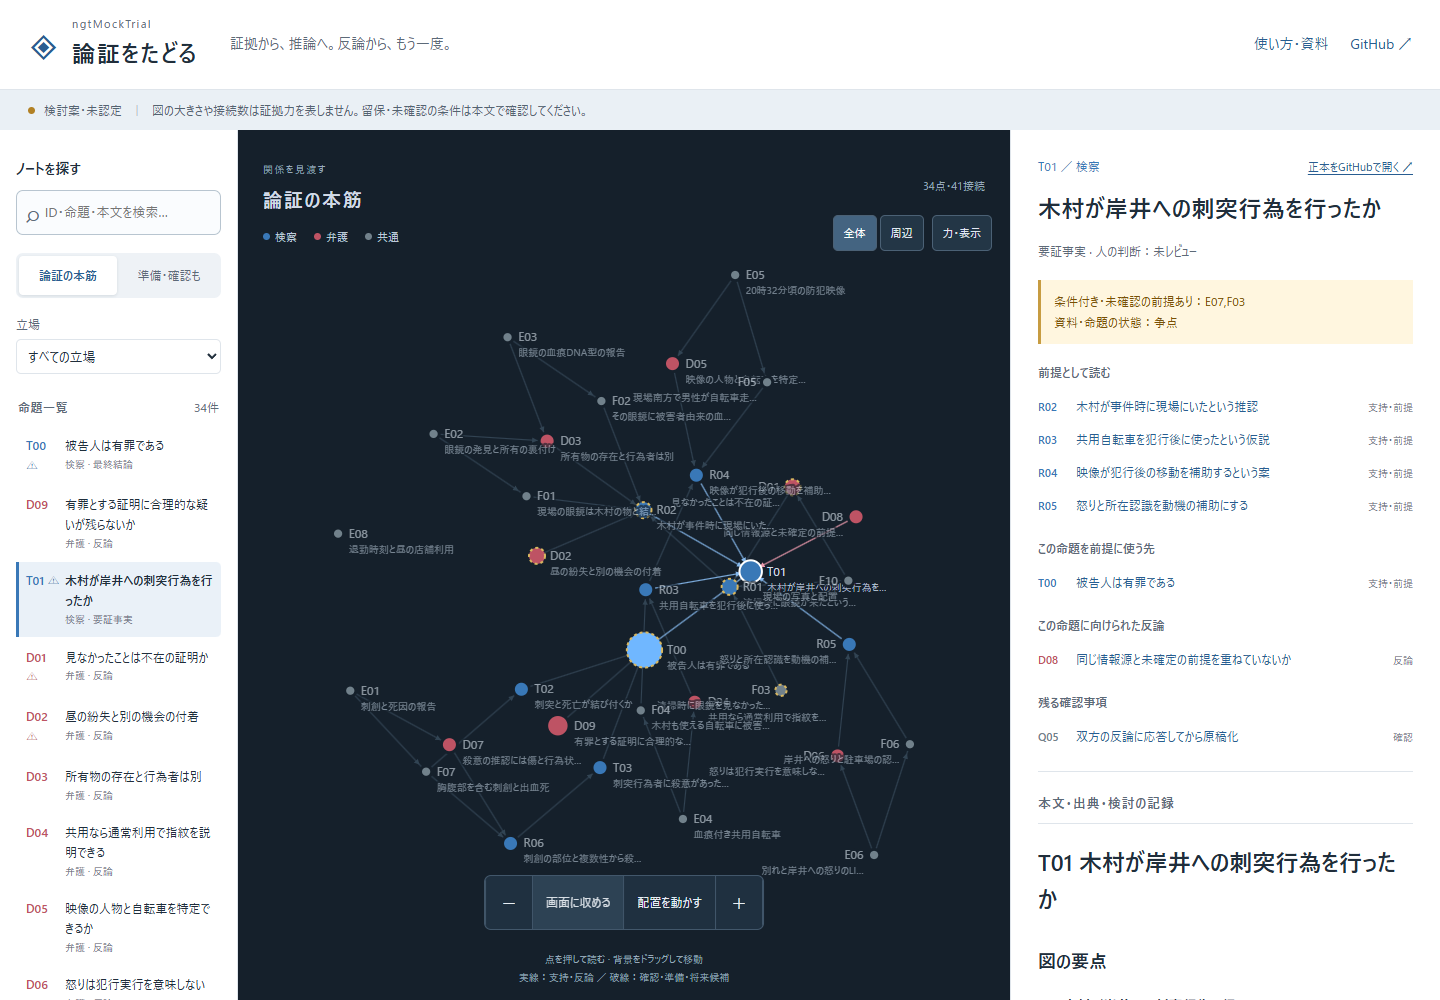
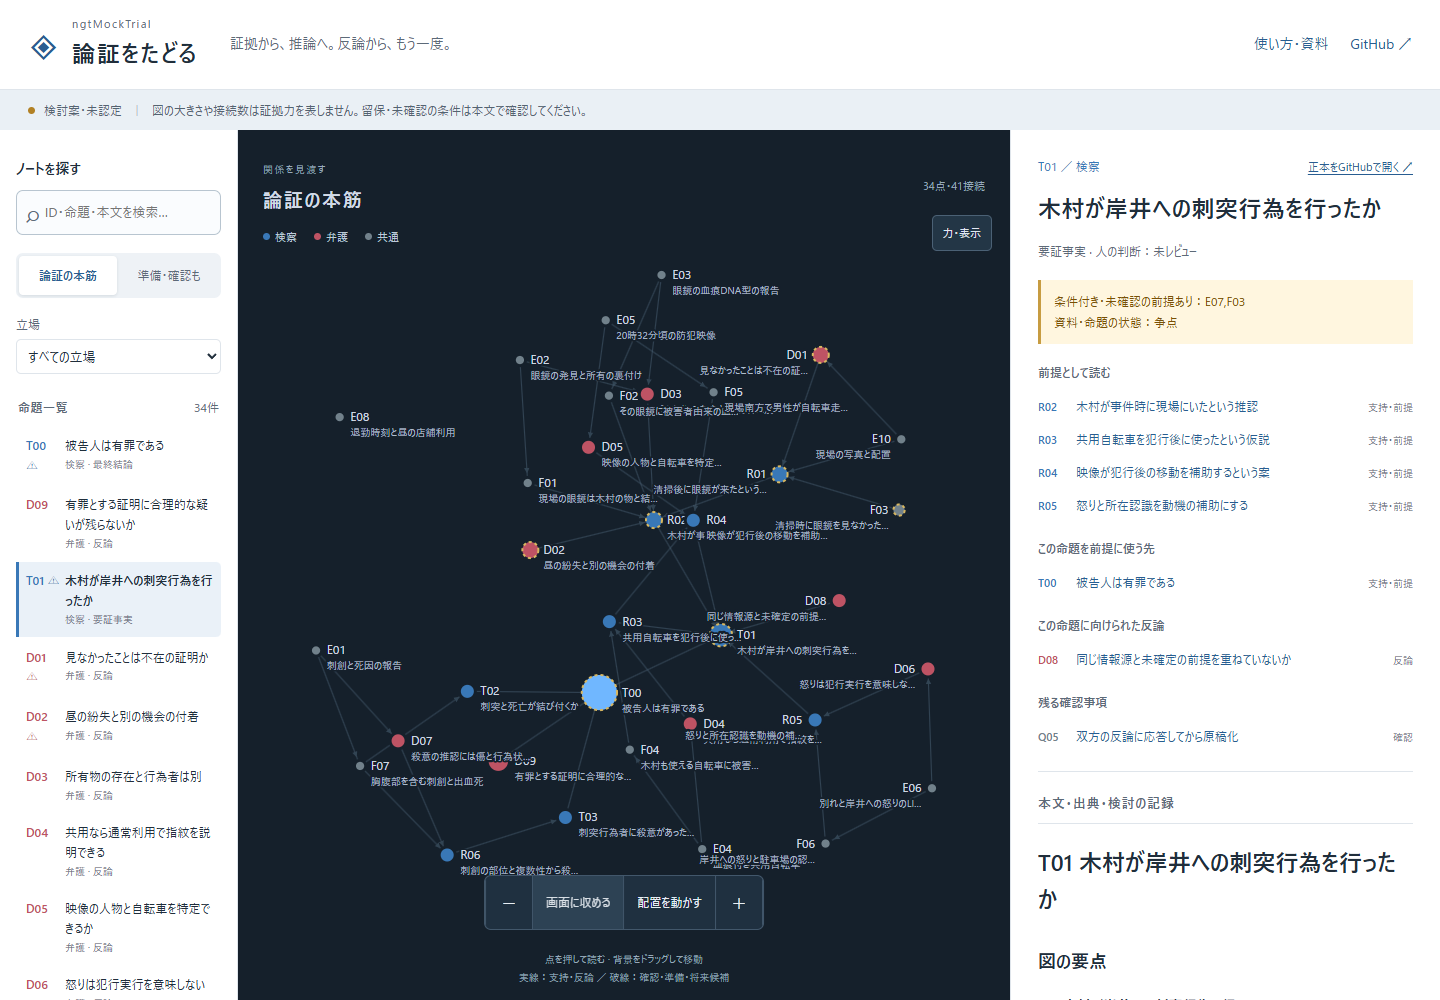
Keep the graph bright until explicit interaction and remove local mode

diff --git a/web/app.js b/web/app.js
@@ -22,13 +22,12 @@
           (typeof saved[key] !== 'number' || Number.isFinite(saved[key]))) settings[key] = saved[key];
     }
   } catch (_) { /* Storage is optional, including file: previews. */ }
-  let graphMode = query.get('graph') === 'local' ? 'local' : 'global';
   let scope = query.get('scope') === 'detail' ? 'detail' : 'main';
   let selected = 'T01', search = query.get('q') || '', side = query.get('side') || '';
   let nodeElements = [], edgeElements = [], visible = [], edges = [], positions = {};
   let width = 600, height = 800, zoom = 1, panX = 0, panY = 0;
   let dragging = null, moved = false;
-  let simulation = null, simulationNodes = [], hovered = null, userPaused = false;
+  let simulation = null, simulationNodes = [], hovered = null, emphasized = null, userPaused = false;
   let fitScale = 1, worldCenter = {x:0,y:0}, plotCenterY=400, automaticFit = true, startedAt = 0;
   const pointCache = new Map();
   const reduceMotion = matchMedia('(prefers-reduced-motion:reduce)');
@@ -48,7 +47,6 @@
     if (scope === 'detail') params.set('scope', scope);
     if (search) params.set('q', search);
     if (side) params.set('side', side);
-    if (graphMode === 'local') params.set('graph', graphMode);
     history.replaceState(null, '', location.pathname + (params.size ? '?' + params : '') + location.hash);
   }
 
@@ -101,7 +99,7 @@
     $('detail').scrollTop = 0;
     document.title = `${id} ${note.title}｜模擬裁判`;
     for (const a of document.querySelectorAll('.note-link')) a.setAttribute('aria-current', a.dataset.note === id);
-    if (graphMode === 'local') renderGraph(); else highlightGraph();
+    highlightGraph();
   }
 
   function renderDocument(path, heading) {
@@ -192,15 +190,8 @@
     const rect = $('graph').getBoundingClientRect(); width=rect.width; height=rect.height;
     $('graph').setAttribute('viewBox',`0 0 ${width} ${height}`);
     let graphNotes=visible;
-    if(graphMode==='local'){
-      const neighbors=new Set([selected]);
-      for(const edge of data.edges)if(edge.source===selected||edge.target===selected){neighbors.add(edge.source);neighbors.add(edge.target);}
-      graphNotes=visible.filter(n=>neighbors.has(n.id));
-    }
     if(!settings.showOrphans){const candidates=new Set(graphNotes.map(n=>n.id));const connected=new Set();for(const edge of data.edges)if(candidates.has(edge.source)&&candidates.has(edge.target)){connected.add(edge.source);connected.add(edge.target);}graphNotes=graphNotes.filter(n=>connected.has(n.id));}
-    $('global-graph').setAttribute('aria-pressed',graphMode==='global');
-    $('local-graph').setAttribute('aria-pressed',graphMode==='local');
-    $('graph-title').textContent=(graphMode==='local' ? selected+'の周辺' : scope==='main'?'論証の本筋':'準備・確認を含む全体');
+    $('graph-title').textContent=scope==='main'?'論証の本筋':'準備・確認を含む全体';
     const ids=graphNotes.map(n=>n.id),set=new Set(ids);
     edges=data.edges.filter(e=>set.has(e.source)&&set.has(e.target));
     simulationNodes=ids.map((id,i)=>{
@@ -236,8 +227,8 @@
       node.addEventListener('pointerleave',()=>{hovered=null;highlightGraph();});
       node.addEventListener('focus',()=>{hovered=note.id;highlightGraph();});
       node.addEventListener('blur',()=>{hovered=null;highlightGraph();});
-      node.addEventListener('click',e=>{if(moved&&e.detail>0)e.preventDefault();moved=false;});
-      node.addEventListener('keydown',e=>{if(e.key===' '){e.preventDefault();location.hash=note.id;}});
+      node.addEventListener('click',e=>{if(moved&&e.detail>0)e.preventDefault();else emphasized=note.id;moved=false;highlightGraph();});
+      node.addEventListener('keydown',e=>{if(e.key===' '){e.preventDefault();emphasized=note.id;location.hash=note.id;highlightGraph();}});
       return {id:note.id,element:node};
     });
     paint();highlightGraph();restartSimulation(.2);
@@ -249,16 +240,17 @@
     for(const {id,element} of nodeElements){const p=positions[id],radius=nodeRadius(id),right=p.x>width*.68;element.setAttribute('transform',`translate(${p.x},${p.y})`);element.querySelector('circle').setAttribute('r',radius);for(const label of element.querySelectorAll('text')){label.setAttribute('x',right?-radius-5:radius+5);label.setAttribute('text-anchor',right?'end':'start');}}
     for(const {element} of edgeElements){element.style.strokeWidth=String(settings.lineSizeMultiplier*1.1);element.setAttribute('marker-end',settings.showArrow?'url(#arrow)':'');}
     $('camera').setAttribute('transform',`translate(${panX},${panY}) scale(${zoom})`);
-    const labelOpacity=Math.max(.12,Math.min(1,zoom*Math.pow(2,settings.textFadeMultiplier/4)));
-    for(const {id,element} of nodeElements)for(const label of element.querySelectorAll('text'))label.style.opacity=String(id===(hovered||selected)?1:labelOpacity);
+    const focus=hovered||emphasized;
+    const labelOpacity=focus?Math.max(.12,Math.min(1,zoom*Math.pow(2,settings.textFadeMultiplier/4))):1;
+    for(const {id,element} of nodeElements)for(const label of element.querySelectorAll('text'))label.style.opacity=String(id===focus?1:labelOpacity);
   }
 
   function highlightGraph() {
-    const focus=hovered||selected;
+    const focus=hovered||emphasized;
     const connected = new Set([focus]);
     for(const edge of edges)if(edge.source===focus||edge.target===focus){connected.add(edge.source);connected.add(edge.target);}
-    for(const {id,element} of nodeElements){element.classList.toggle('selected',id===selected);element.classList.toggle('dimmed',!connected.has(id));}
-    for(const {edge,element} of edgeElements){const active=edge.source===focus||edge.target===focus;element.classList.toggle('active',active);element.classList.toggle('dimmed',!active);}
+    for(const {id,element} of nodeElements){element.classList.toggle('selected',id===focus);element.classList.toggle('dimmed',!!focus&&!connected.has(id));}
+    for(const {edge,element} of edgeElements){const active=edge.source===focus||edge.target===focus;element.classList.toggle('active',active);element.classList.toggle('dimmed',!!focus&&!active);}
     paint();
   }
 
@@ -267,17 +259,17 @@
   function startDrag(e,id){if(e.button!==0)return;e.stopPropagation();moved=false;automaticFit=false;const point=id?pointCache.get(id):null;dragging={id,x:e.clientX,y:e.clientY,panX,panY,start:point?{x:point.x,y:point.y}:null};if(point){point.fx=point.x;point.fy=point.y;restartSimulation(.3);}$('graph').setPointerCapture(e.pointerId);}
   $('graph').addEventListener('pointerdown',e=>startDrag(e,null));
   $('graph').addEventListener('pointermove',e=>{if(!dragging)return;const dx=e.clientX-dragging.x,dy=e.clientY-dragging.y;if(Math.hypot(dx,dy)>5)moved=true;if(dragging.id){const p=pointCache.get(dragging.id);p.x=p.fx=dragging.start.x+dx/zoom/fitScale;p.y=p.fy=dragging.start.y+dy/zoom/fitScale;}else{panX=dragging.panX+dx;panY=dragging.panY+dy;}paint();});
-  function finishDrag(e){const current=dragging;dragging=null;if($('graph').hasPointerCapture(e.pointerId))$('graph').releasePointerCapture(e.pointerId);if(current?.id){const point=pointCache.get(current.id);point.fx=point.fy=null;restartSimulation(.3);if(!moved&&e.type!=='pointercancel')location.hash=current.id;}}
+  function finishDrag(e){const current=dragging;dragging=null;if($('graph').hasPointerCapture(e.pointerId))$('graph').releasePointerCapture(e.pointerId);if(current?.id){const point=pointCache.get(current.id);point.fx=point.fy=null;restartSimulation(.3);if(!moved&&e.type!=='pointercancel'){emphasized=current.id;location.hash=current.id;highlightGraph();}}else if(current&&!moved&&e.type!=='pointercancel'){emphasized=hovered=null;highlightGraph();}}
   $('graph').addEventListener('pointerup',finishDrag);
   $('graph').addEventListener('pointercancel',finishDrag);
   $('graph').addEventListener('wheel',e=>{if(e.ctrlKey)return;e.preventDefault();scaleBy(Math.exp(-e.deltaY*.002));},{passive:false});
   $('graph').setAttribute('tabindex','0');
   $('graph').addEventListener('keydown',e=>{if(['+','=','-','ArrowLeft','ArrowRight','ArrowUp','ArrowDown'].includes(e.key)){e.preventDefault();if(e.key==='+'||e.key==='=')scaleBy(1.25);else if(e.key==='-')scaleBy(.8);else{automaticFit=false;const amount=e.shiftKey?60:20;panX+=e.key==='ArrowLeft'?amount:e.key==='ArrowRight'?-amount:0;panY+=e.key==='ArrowUp'?amount:e.key==='ArrowDown'?-amount:0;paint();}}});
   $('zoom-in').addEventListener('click',()=>scaleBy(1.25));$('zoom-out').addEventListener('click',()=>scaleBy(.8));
-  $('reset-graph').addEventListener('click',()=>{fitWorld();resetView();for(const {element} of nodeElements)element.classList.remove('dimmed');for(const {element} of edgeElements)element.classList.remove('dimmed');});
+  $('reset-graph').addEventListener('click',()=>{fitWorld();resetView();emphasized=hovered=null;highlightGraph();});
   $('pause-layout').addEventListener('click',()=>{if($('graph').dataset.running==='true'){userPaused=true;stopSimulation();}else{userPaused=false;restartSimulation();}});
-  $('global-graph').addEventListener('click',()=>{graphMode='global';updateURL();renderGraph();});
-  $('local-graph').addEventListener('click',()=>{graphMode='local';updateURL();renderGraph();});
+  $('note-list').addEventListener('click',e=>{const link=e.target.closest('[data-note]');if(link){emphasized=link.dataset.note;highlightGraph();}});
+  document.addEventListener('keydown',e=>{if(e.key==='Escape'){emphasized=hovered=null;highlightGraph();}});
   function showSettings(){for(const input of document.querySelectorAll('[data-setting]')){if(input.type==='checkbox')input.checked=settings[input.dataset.setting];else{input.value=settings[input.dataset.setting];input.previousElementSibling.value=String(settings[input.dataset.setting]);}}}
   function saveSettings(){try{localStorage.setItem(settingsKey,JSON.stringify(settings));}catch(_){} }
   for(const input of document.querySelectorAll('[data-setting]'))input.addEventListener('input',()=>{settings[input.dataset.setting]=input.type==='checkbox'?input.checked:Number(input.value);showSettings();saveSettings();if(['centerStrength','repelStrength','linkStrength','linkDistance','nodeSizeMultiplier'].includes(input.dataset.setting)){applyForces();restartSimulation();}paint();});
@@ -291,7 +283,7 @@
   $('search').addEventListener('input',e=>{search=e.target.value;renderIndex();});
   $('side').addEventListener('change',e=>{side=e.target.value;renderIndex();});
   $('detail-content').addEventListener('click',e=>{const link=e.target.closest('a[href^="#heading="]');if(link){e.preventDefault();scrollHeading(decodeURIComponent(link.hash.slice(9)));}});
-  window.addEventListener('hashchange',()=>{route();if(matchMedia('(max-width:850px)').matches)$('detail').scrollIntoView({block:'start'});});
+  window.addEventListener('hashchange',()=>{const id=location.hash.slice(1);emphasized=notes[id]?id:null;hovered=null;route();highlightGraph();if(matchMedia('(max-width:850px)').matches)$('detail').scrollIntoView({block:'start'});});
   let resizeFrame;
   new ResizeObserver(()=>{cancelAnimationFrame(resizeFrame);resizeFrame=requestAnimationFrame(renderGraph);}).observe($('graph'));
   renderIndex();route();

diff --git a/web/styles.css b/web/styles.css
@@ -5,5 +5,5 @@
 @media(max-width:850px){.workspace{grid-template-columns:200px 1fr;height:auto;min-height:0}.graph-panel{height:570px;grid-column:2;grid-row:1}.index-panel{grid-row:1 / 3;max-height:none}.detail-panel{grid-column:2;overflow:visible;border-top:1px solid var(--line);padding-bottom:40px}.notice{font-size:11px;padding:8px 18px;display:block}.notice-dot{display:none}.masthead{height:80px}.graph-heading h2{font-size:18px}.graph-node .node-title{font-size:10px}}
 @media(max-width:560px){.masthead{height:auto;min-height:75px;padding:13px 16px;gap:10px}.brand-mark{font-size:29px}.brand{gap:8px}h1{font-size:18px}.eyebrow{font-size:10px}.header-links{font-size:11px;gap:12px}.notice{padding:8px 16px;font-size:10px;line-height:1.7}.workspace{display:flex;flex-direction:column}.index-panel{padding:15px 16px 10px;border-right:0}.search-label{font-size:12px}.search-wrap{margin-top:4px}.scope-switch{margin-top:10px}.filter-label{display:none}#side{display:none}.list-heading{margin-top:12px;margin-bottom:5px}#note-list{display:flex;overflow:auto;gap:5px;padding-bottom:5px;max-height:100px}.note-link{min-width:160px;max-width:200px;flex:0 0 165px;display:block;padding:7px 8px;font-size:11px;border:1px solid var(--line);border-left:3px solid var(--node-color);border-radius:4px}.note-id{display:block;font-size:10px}.note-link small{display:none}.sidebar-footer{display:none}.graph-panel{height:450px;flex-shrink:0;order:2}.detail-panel{order:3;border-left:0;padding:24px 20px 50px;min-height:500px}.graph-heading{top:18px}.graph-legend{top:83px}.graph-heading h2{font-size:17px}.graph-tools{bottom:60px}.graph-hint{bottom:9px}.detail-panel h2.note-title{font-size:22px}.markdown{font-size:15px}.note-category{font-size:12px}.graph-node .node-title{display:none}.graph-node.selected .node-title{display:block}.graph-node text{font-size:11px}.notice>span:not(.notice-dot){display:none}}
 @media(prefers-reduced-motion:reduce){.detail-panel{scroll-behavior:auto}*{animation:none!important;transition:none!important}}
-.graph-options{position:absolute;right:18px;top:85px;z-index:5;display:flex;gap:8px;align-items:flex-start;font-size:11px}.graph-options button,.graph-options summary{background:#233646;border:1px solid #4b6175;color:#e0e8f0;border-radius:5px;padding:7px 10px;cursor:pointer;min-height:36px}.graph-mode{display:flex;gap:3px}.graph-mode button[aria-pressed=true]{background:#446481;color:white}.graph-options details{position:relative}.graph-options summary{list-style:none}.graph-options summary::-webkit-details-marker{display:none}.settings-body{position:absolute;right:0;top:42px;width:270px;padding:15px;background:#20303e;border:1px solid #52677a;border-radius:7px;box-shadow:0 8px 28px #0005;max-height:calc(100dvh - 300px);overflow:auto;color:#d9e2eb;overscroll-behavior:contain}.settings-body p{font-size:10px;line-height:1.7;color:#b8c7d4;margin:4px 0 12px}.settings-body fieldset{border:0;border-top:1px solid #43586a;padding:10px 0;margin:8px 0}.settings-body legend{font-size:11px;padding:0 7px;color:#bfcfdd}.settings-body label{display:block;margin-bottom:9px;font-size:11px}.settings-body output{float:right;color:#fff;font-variant-numeric:tabular-nums}.settings-body input[type=range]{width:100%;display:block;accent-color:#92c4ef;margin:7px 0;min-height:20px}.settings-body .checkbox{display:flex;align-items:center;gap:7px;min-height:34px}.settings-body #restore-settings{width:100%;font-size:11px}.graph-options summary:hover,.graph-options button:hover{background:#38536a}.graph-tools{white-space:nowrap}.graph-tools #pause-layout{border-left:1px solid #42576b}
+.graph-options{position:absolute;right:18px;top:85px;z-index:5;display:flex;gap:8px;align-items:flex-start;font-size:11px}.graph-options button,.graph-options summary{background:#233646;border:1px solid #4b6175;color:#e0e8f0;border-radius:5px;padding:7px 10px;cursor:pointer;min-height:36px}.graph-options details{position:relative}.graph-options summary{list-style:none}.graph-options summary::-webkit-details-marker{display:none}.settings-body{position:absolute;right:0;top:42px;width:270px;padding:15px;background:#20303e;border:1px solid #52677a;border-radius:7px;box-shadow:0 8px 28px #0005;max-height:calc(100dvh - 300px);overflow:auto;color:#d9e2eb;overscroll-behavior:contain}.settings-body p{font-size:10px;line-height:1.7;color:#b8c7d4;margin:4px 0 12px}.settings-body fieldset{border:0;border-top:1px solid #43586a;padding:10px 0;margin:8px 0}.settings-body legend{font-size:11px;padding:0 7px;color:#bfcfdd}.settings-body label{display:block;margin-bottom:9px;font-size:11px}.settings-body output{float:right;color:#fff;font-variant-numeric:tabular-nums}.settings-body input[type=range]{width:100%;display:block;accent-color:#92c4ef;margin:7px 0;min-height:20px}.settings-body .checkbox{display:flex;align-items:center;gap:7px;min-height:34px}.settings-body #restore-settings{width:100%;font-size:11px}.graph-options summary:hover,.graph-options button:hover{background:#38536a}.graph-tools{white-space:nowrap}.graph-tools #pause-layout{border-left:1px solid #42576b}
 @media(max-width:560px){.graph-options{top:68px;right:12px;gap:5px}.graph-options button,.graph-options summary{font-size:10px;padding:7px;min-height:36px}.settings-body{width:255px;max-height:280px}.graph-tools button{padding:8px 10px}.graph-heading{right:15px}.graph-legend{gap:11px}}

diff --git a/web/index.html b/web/index.html
@@ -37,7 +37,6 @@
     <div class="graph-heading"><div><span class="graph-kicker">関係を見渡す</span><h2 id="graph-title">論証の本筋</h2></div><span id="graph-count"></span></div>
     <div class="graph-legend"><span><i class="dot prosecution"></i>検察</span><span><i class="dot defense"></i>弁護</span><span><i class="dot common"></i>共通</span></div>
     <div class="graph-options">
-      <div class="graph-mode" role="group" aria-label="グラフの広さ"><button id="global-graph" aria-pressed="true">全体</button><button id="local-graph" aria-pressed="false">周辺</button></div>
       <details id="graph-settings"><summary>力・表示</summary><div class="settings-body">
         <p id="settings-origin"></p>
         <fieldset><legend>力</legend>

diff --git a/web/DESIGN.md b/web/DESIGN.md
@@ -6,7 +6,9 @@
 
 実行時のトークンは`styles.css`の`:root`。背景・本文・補助文・境界・立場色・警告・フォーカス・文字サイズを集約する。図の点は暗い背景に合わせた明るい同系色。種類・立場・状態は本文にも文字で示し、色だけに頼らない。
 
-グラフは正本の関係だけを使うD3の力学配置。ObsidianのピンやCanvas座標は変更しない。ドラッグ・設定変更で再計算し、収束後または操作がない状態で最大3.5秒後には停止する。非表示タブとページ離脱でも停止し、動きを減らす設定では同期計算して静止画を描く。拡縮・画面に収める・配置の停止／再開ボタンも置く。力・表示の調整と全体／周辺切替をグラフ右上にまとめる。
+グラフは正本の関係だけを使うD3の力学配置。ObsidianのピンやCanvas座標は変更しない。ドラッグ・設定変更で再計算し、収束後または操作がない状態で最大3.5秒後には停止する。非表示タブとページ離脱でも停止し、動きを減らす設定では同期計算して静止画を描く。拡縮・画面に収める・配置の停止／再開ボタンも置く。右上は力・表示の調整だけとし、全体／周辺の切替は置かない。
+
+本文で表示中のノートと、グラフで明示的に強調したノートを分離する。初期表示は全体を明るくし、ホバー／フォーカスの間とクリック選択後だけ関係外を暗くする。未選択時のホバー解除では全体表示へ戻る。背景クリック・Escape・画面に収めるでも強調を解除する。初期URLのノート指定や本文の既定ノートだけで全体を暗くしない。
 
 共有設定は`graph-settings.json`の保存済みObsidian設定。力はD3向けに換算し、サイズ・線幅・矢印・色グループ・文字のしきい値を表示へ反映する。ブラウザの調整は共有設定ハッシュごとのlocalStorageに置く。新しい共有設定が配信されれば、その共有値を新しい初期値とする。D3の配布ファイルとライセンスは`vendor/`に固定し、CDNを使わない。公式Obsidianのエンジンや画面の完全複製ではない。
 

diff --git a/README.md b/README.md
@@ -8,7 +8,7 @@
 
 Obsidianをインストールせず、グラフの点を押して本文・出典・前提・反論・確認事項を読めます。「論証の本筋」は34点、「準備・確認も」は全43点。検索はID・命題・本文が対象です。選択したノートのURLを共有でき、スマートフォンにも対応します。
 
-**Obsidianの保存済みの力・表示設定を引き継いでいます。** 「力・表示」で調整、「周辺」で選択ノートの近隣表示、「全体」で全件表示へ戻れます。点をドラッグすると周囲も動いて再配置されます。調整は各ブラウザ内に保存され、「Obsidianの共有設定に戻す」で復元できます。公式Publishの部品そのものではなく、D3による力学配置を使います。設定の引継ぎ範囲と換算は[Pagesの説明](docs/20_GitHubPagesと同期.md)へ。
+**Obsidianの保存済みの力・表示設定を引き継いでいます。** 通常は全体を明るく表示し、点へのホバー・キーボードフォーカス・クリック時に関係する部分を強調します。背景のクリック、Escape、「画面に収める」で強調を解除できます。右上の「力・表示」で調整でき、点をドラッグすると周囲も動いて再配置されます。調整は各ブラウザ内に保存され、「Obsidianの共有設定に戻す」で復元できます。公式Publishの部品そのものではなく、D3による力学配置を使います。設定の引継ぎ範囲と換算は[Pagesの説明](docs/20_GitHubPagesと同期.md)へ。
 
 青＝検察、赤＝弁護、灰＝共通。最大の点T00「被告人は有罪である」は検察側の立証目標で、認定済みを意味しません。線の意味は本文の接続欄で確認してください。準備資料・未獲得の供述候補は現在の証拠ではありません。
 

diff --git a/docs/spec.md b/docs/spec.md
@@ -2,7 +2,7 @@
 
 ## 2026-10-24追加：公開リポジトリとPages
 
-同日追加のグラフ操作・設定引継ぎ：D3による収束する力学配置とドラッグ時の再配置、全体／選択ノートの周辺切替、ホバー強調・ホイール拡縮・停止再開を提供する。保存済みObsidianの力・表示値を明示的なエクスポートで共有し、元設定・ピンは変更しない。Pagesでの調整はブラウザ内だけへ保存し、共有値へ戻せる。別エンジンで換算する項目と、任意の検索式・タグ点・カメラ等の未対応範囲を説明する。
+同日追加のグラフ操作・設定引継ぎ：D3による収束する力学配置とドラッグ時の再配置、ホバー強調・ホイール拡縮・停止再開を提供する。通常は全体を明るく表示し、明示的なホバー・フォーカス・クリック時だけ関係外を暗くする。右上の全体／周辺切替は追加後のユーザー依頼で撤去する。保存済みObsidianの力・表示値を明示的なエクスポートで共有し、元設定・ピンは変更しない。Pagesでの調整はブラウザ内だけへ保存し、共有値へ戻せる。別エンジンで換算する項目と、任意の検索式・タグ点・カメラ等の未対応範囲を説明する。
 
 ユーザー指定の`ngtMockTrial`組織でpublicリポジトリを作り、Pagesで正本由来のグラフと本文を閲覧できるようにする。以前の非公開初期方針・アップロード対象外という記録を今回の依頼で更新する。出典・採否・人のレビューの規約は維持する。
 
